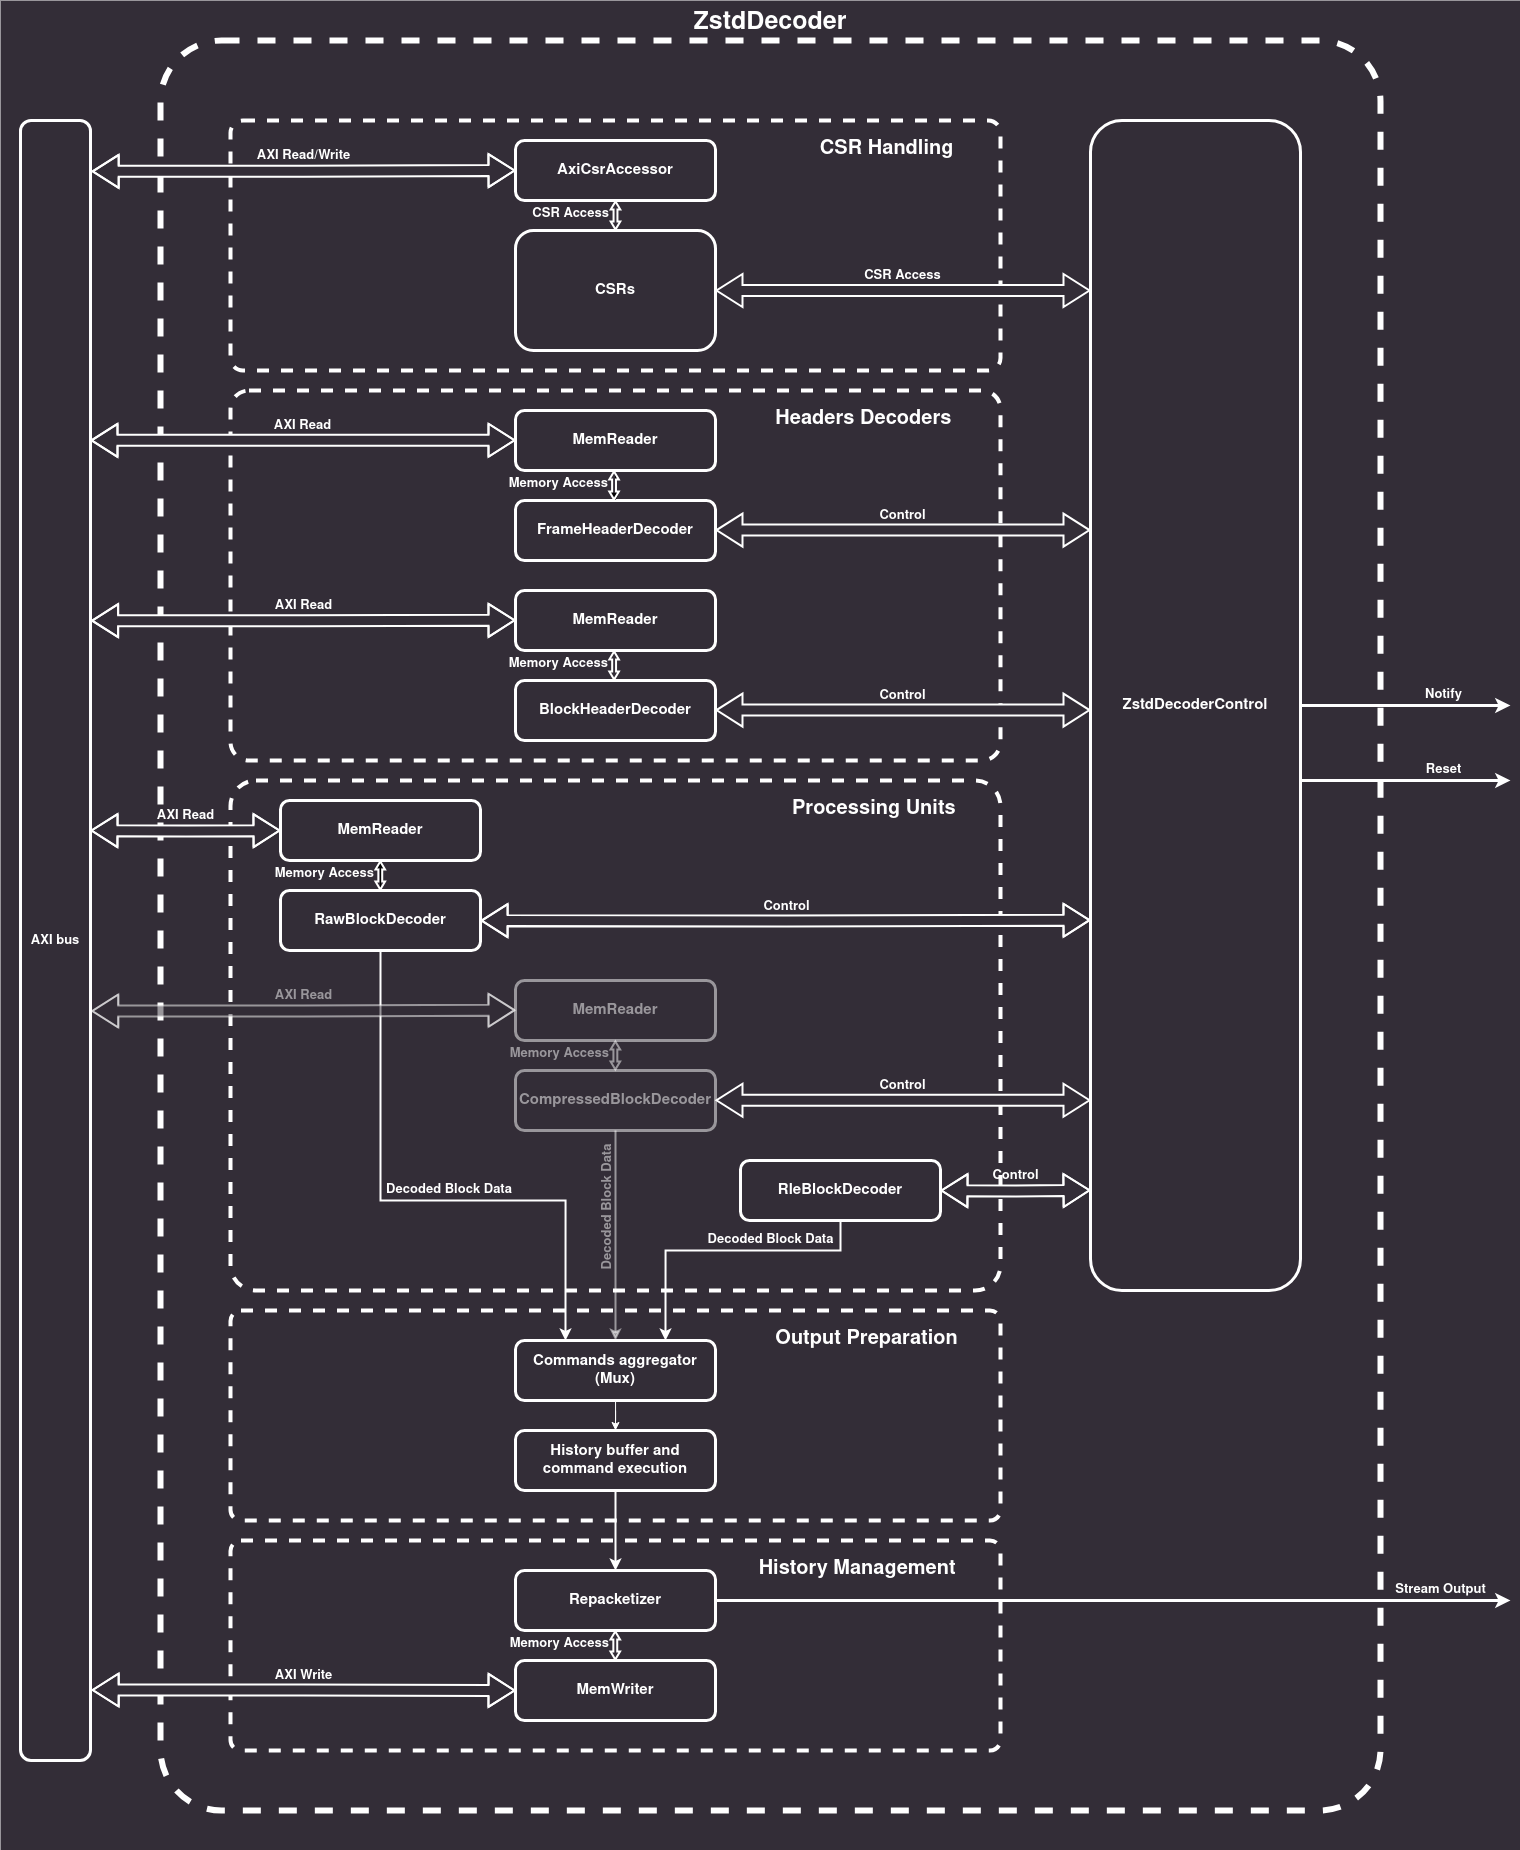
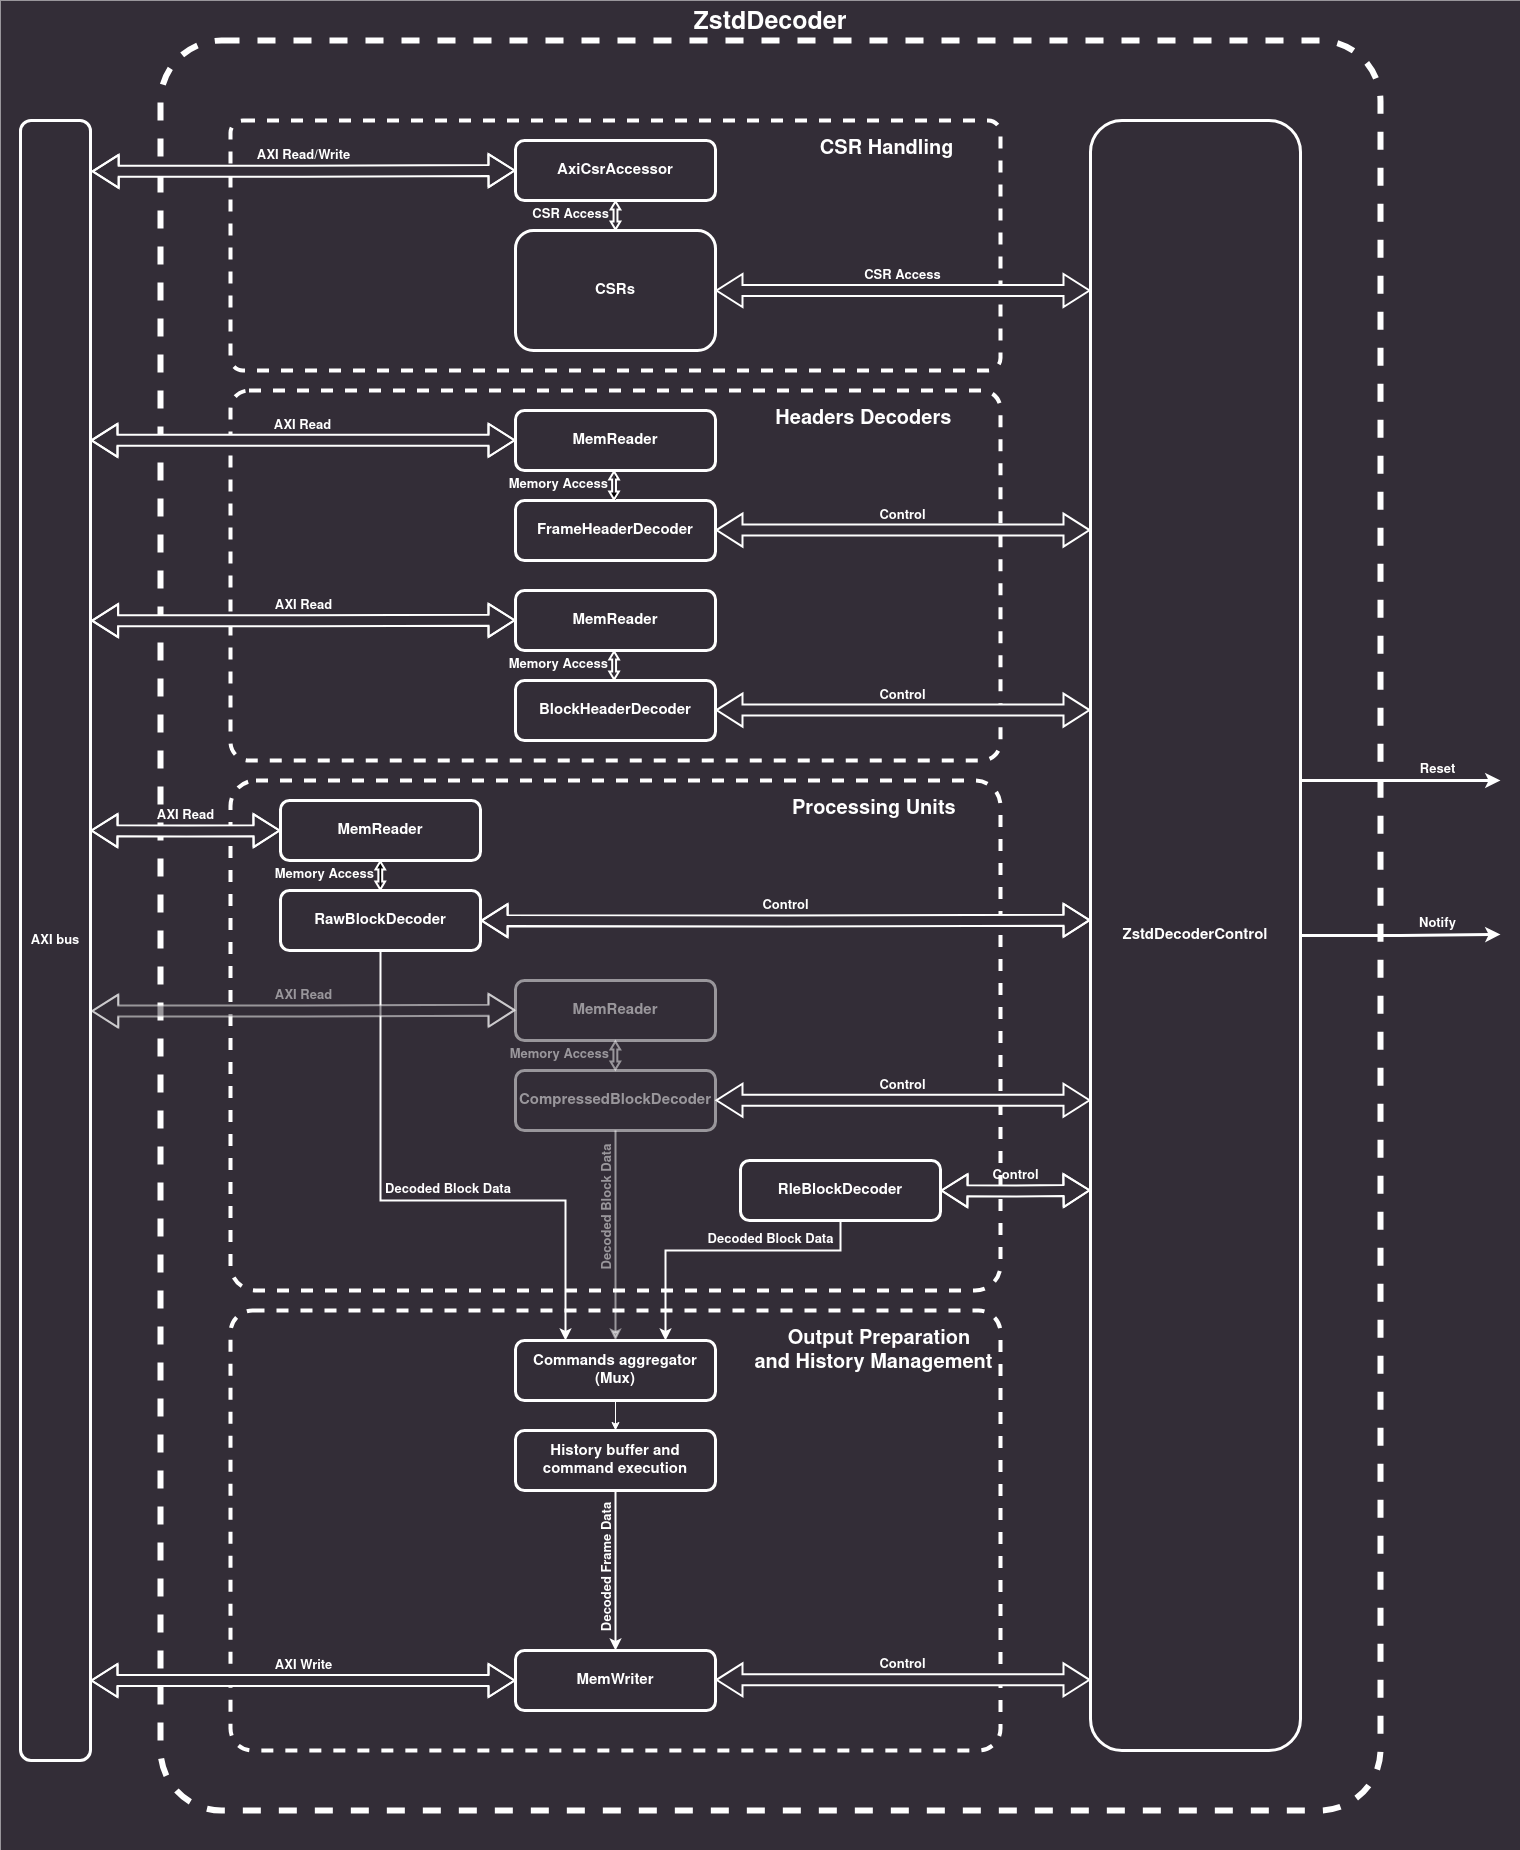
modules/zstd/README: Update output interface description
Internal-tag: [#67272]

diff --git a/xls/modules/zstd/README.md b/xls/modules/zstd/README.md
@@ -5,19 +5,17 @@ It implements the [RFC 8878](https://www.rfc-editor.org/rfc/rfc8878.html) decomp
 An overview of the decoder architecture is presented in the diagram below.
 The decoder comprises:
 * Memory Readers
-* Memory Writer[^2],
+* Memory Writer,
 * Control and Status Registers,
 * Frame Header Decoder,
 * Block Header Decoder,
 * 3 types of processing units: RAW-, RLE-, and Compressed Block Decoders[^1],
 * Command Aggregator,
-* Repacketizer.
 
 The Decoder interacts with the environment through a set of ports:
 * Memory Interface (AXI)
 * CSR Interface (AXI)
 * Notify line
-* Stream Output
 
 The software controls the core through registers accessible through the `CSR Interface`.
 The CSRs are used to configure the decoder and to start the decoding process.
@@ -33,8 +31,8 @@ Once the decoding process is started, the decoder:
 4. Decodes the Block Data with the correct processing unit picked based on the Block Type from the Block Header,
 4. Aggregates the processing unit results in the correct order into a stream and routes it to the history buffer,
 5. Assembles the data block outputs based on the history buffer contents and updates the history,
-6. Prepares the final output of the decoder,
-7. (Optional) Calculates checksum and compares it against the checksum read from the frame.[^3]
+6. Prepares the final output of the decoder and writes it to the memory,
+7. (Optional) Calculates checksum and compares it against the checksum read from the frame.[^2]
 
 ![](img/ZSTD_decoder.png)
 
@@ -115,31 +113,41 @@ stateDiagram
     [*] --> IDLE
 
     IDLE --> READ_CONFIG: Start
+    IDLE --> mem_write_done
 
     READ_CONFIG --> DECODE_FRAME_HEADER
+    READ_CONFIG --> mem_write_done
 
     DECODE_FRAME_HEADER --> DECODE_BLOCK_HEADER
     DECODE_FRAME_HEADER --> ERROR
+    DECODE_FRAME_HEADER --> mem_write_done
 
     DECODE_BLOCK_HEADER --> DECODE_RAW_BLOCK
     DECODE_BLOCK_HEADER --> DECODE_RLE_BLOCK
     DECODE_BLOCK_HEADER --> DECODE_COMPRESED_BLOCK
     DECODE_BLOCK_HEADER --> ERROR
+    DECODE_BLOCK_HEADER --> mem_write_done
 
     state if_block_last <<choice>>
     DECODE_RAW_BLOCK --> ERROR
     DECODE_RAW_BLOCK --> if_block_last
+    DECODE_RAW_BLOCK --> mem_write_done
 
     DECODE_RLE_BLOCK --> ERROR
     DECODE_RLE_BLOCK --> if_block_last
+    DECODE_RLE_BLOCK --> mem_write_done
 
     DECODE_COMPRESSED_BLOCK --> ERROR
     DECODE_COMPRESSED_BLOCK --> if_block_last
+    DECODE_COMPRESSED_BLOCK --> mem_write_done
 
     if_block_last --> DECODE_BLOCK_HEADER: Not last block in the frame
     if_block_last --> DECODE_CHECKSUM: Last block in the frame
 
-    DECODE_CHECKSUM --> FINISH
+    DECODE_CHECKSUM --> mem_write_done
+
+    state mem_write_done <<choice>>
+    mem_write_done --> FINISH: Frame written to the memory
 
     FINISH --> IDLE
     ERROR --> IDLE
@@ -154,9 +162,9 @@ Once received, the module fetches the data from the memory starting from the add
 `MemReader` procs are used by those modules to communicate with the external memory through the AXI interface.
 Internal modules decode the acquired parts of the frame and return responses with the results back to the top level proc.
 
-The processing units also output the decoded blocks of data through a stream-based interface to `SequenceExecutor` and further to `Repacketizer` procs.
-Those procs perform the last steps of the decoding before the final output is sent out back to the memory under the address stored in the `Output Buffer` CSR or through the stream-based output channel.
-Once the decoding process is completed, the decoder sends the `Notify` signal and transitions back to the `IDLE` state.
+The processing units also output the decoded blocks of data through a stream-based interface to the `SequenceExecutor` proc.
+This proc performs the last step of the decoding before the final output is sent out back to the memory under the address stored in the `Output Buffer` CSR by the `MemWriter` proc.
+Once the decoding process is completed and the decoded frame is written back to the memory, the decoder sends the `Notify` signal and transitions back to the `IDLE` state.
 
 ### Internal modules
 
@@ -211,19 +219,6 @@ This stage will show the following behavior, depending on the tag:
     * Wait for all previous writes to be completed,
     * Copy `copy_length` literals starting `offset _length` from the newest in history buffer to the decoder's output,
     * Copy `copy_length` literals starting `offset _length` from the newest in history buffer to the history buffer as the newest.
-
-#### Repacketizer
-This proc is used at the end of the processing flow in the ZSTD decoder.
-It gathers the output of `SequenceExecutor` proc and processes it to form the final output packets of the ZSTD decoder.
-Input packets coming from the `SequenceExecutor` consist of:
-
-* data - bit vector of constant length
-* length - field describing how many bits in bit vector are valid
-* last - flag which marks the last packet in currently decoded ZSTD frame.
-
-It is not guaranteed that all bits in data bit vectors in packets received from `SequenceExecutor` are valid as those can include padding bits that were added in previous decoding steps and now have to be removed.
-Repacketizer buffers input packets, removes the padding bits and forms new packets with all bits of the bit vector valid, meaning that all bits are decoded data.
-Newly formed packets are then sent out to the output of the whole ZSTD decoder.
 
 ### Compressed block decoder architecture[^1]
 This part of the design is responsible for processing the compressed blocks up to the `literals`/`copy` command sequence.
@@ -357,8 +352,8 @@ Currently, due to the restrictions from the ZSTD frame generator, it is possible
 ZstdDecoder's main communication interfaces are the AXI buses.
 Due to the way XLS handles the codegen of DSLX channels that model the AXI channels, the particular ports of the AXI channels are not represented correctly.
 This enforces the introduction of a Verilog wrapper that maps the ports generated by XLS into proper AXI ports (see AXI peripherals [README](memory/README.md) for more information).
-Additionally, the wrapper is used to mux multiple AXI interfaces from `Memory Readers` into a single outside-facing AXI interface (`Memory Interface`) that can be connected to the external memory.
-The mux is implemented by a third-party [AXI Interconnect](https://github.com/alexforencich/verilog-axi).
+Additionally, the wrapper is used to mux multiple AXI interfaces from `Memory Readers` and `Memory Writer` into a single outside-facing AXI interface (`Memory Interface`) that can be connected to the external memory.
+The mux is implemented by a third-party [AXI Crossbar](https://github.com/alexforencich/verilog-axi).
 
 ![](img/ZSTD_decoder_wrapper.png)
 
